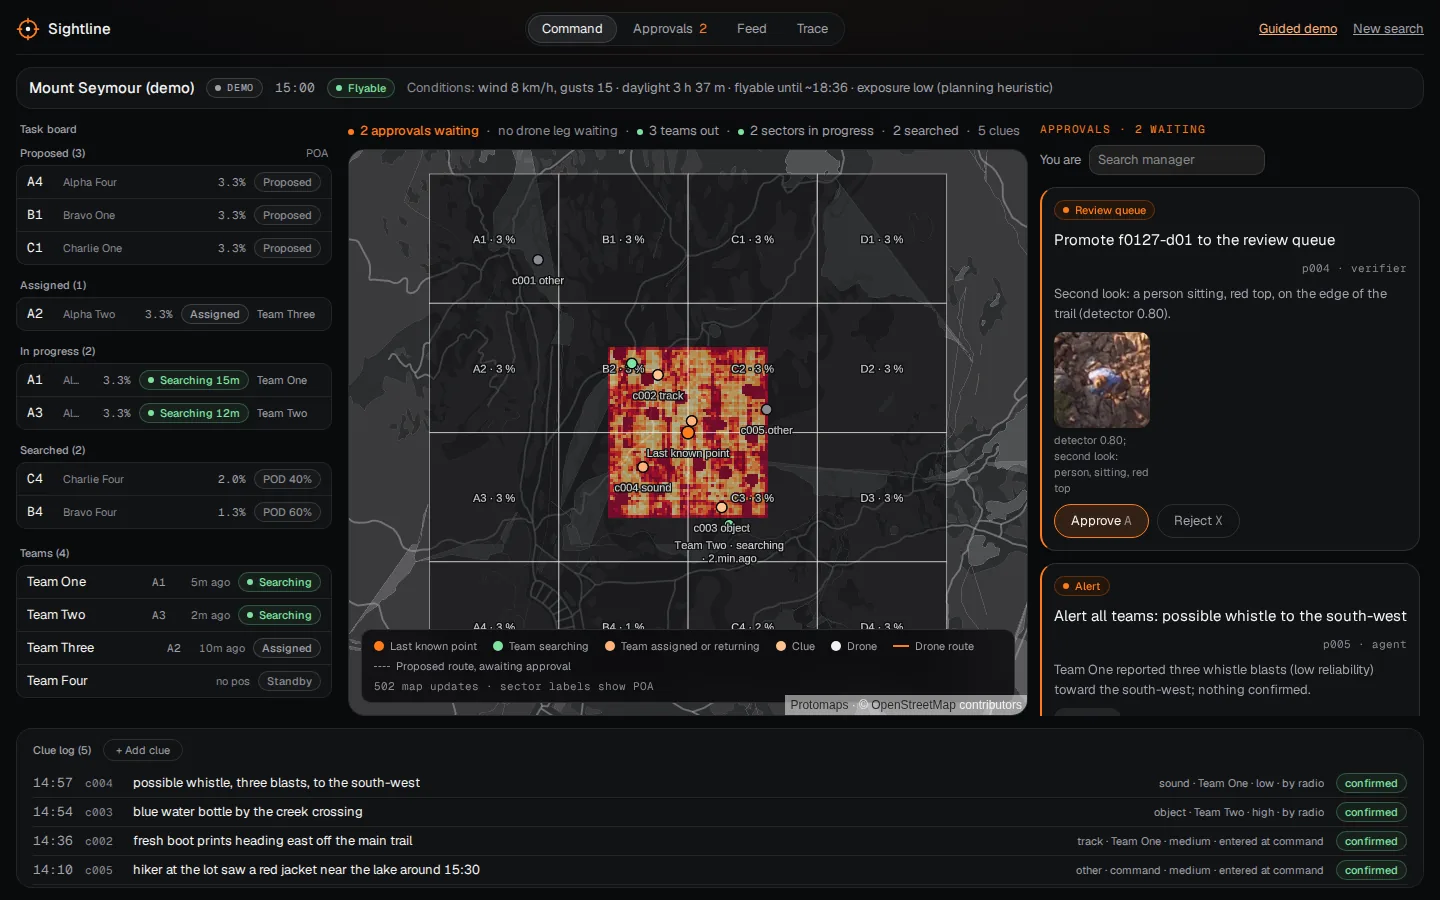
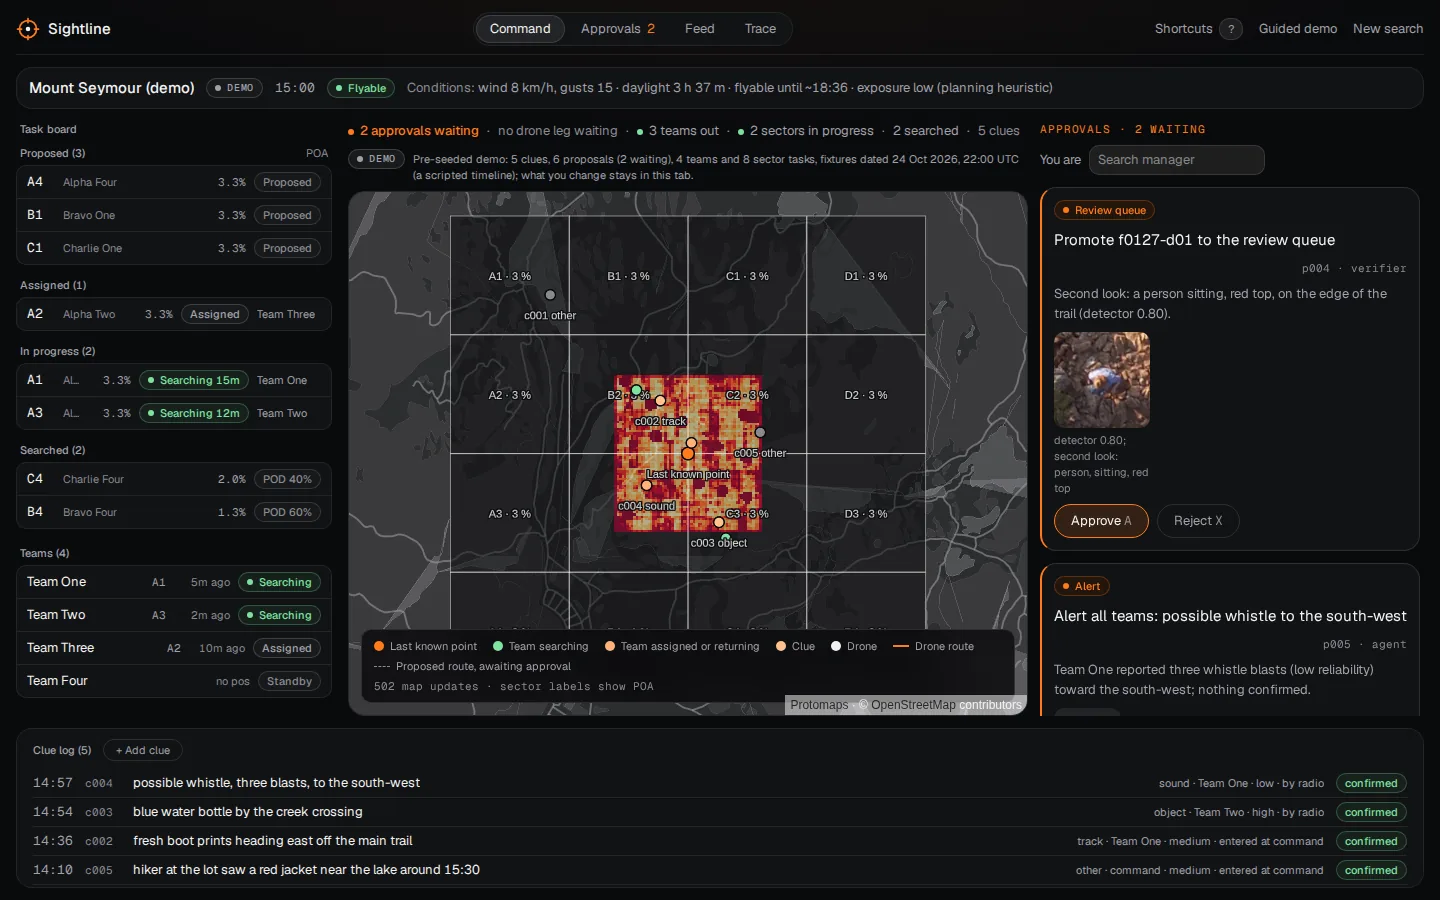
Front door screenshot retaken on the finished console; command README notes the console and Trace

diff --git a/web/src/command/README.md b/web/src/command/README.md
@@ -51,3 +51,19 @@ clock, not the demo's 21:00 timeline.
 - **Roster fly-to** (E-06): a team's callsign selects it (`useSelection().selectTeam`, D-M2), and the live map
   flies to its position; clicking a team, drone or clue on the map selects it.
 
+## Console and Trace (lane A, redesign)
+
+- **Console** (`CommandView` with `map`): one-row mission header (name, LIVE/DEMO chip, clock, flyability,
+  conditions), a status line above the map (`missionStatus`: approvals waiting, drone leg ready, teams out,
+  sectors in progress, clues), one-line task rows (sector · POA · state · team; actions on hover or focus,
+  the row expands to details, the team picker and the POD entry), a first-visit hint (`ConsoleHint`, kept in
+  `localStorage` under `sightline.consoleHint`) and a "Desktop recommended" note under 1024 px.
+- **Status colours** (`shell/theme.css`): one pill, `.sl-pill`, driven by `--c` through `data-tone`: ok
+  (green: searching, done), caution (amber), alert (red), action (orange: needs a person), neutral, muted.
+  `StatusPill`, `ModeChip` (LIVE / DEMO / SIM / Recorded) and `Badge` all use it.
+- **Trace tab** (`TraceView.tsx`, `trace.ts`, `#m/<id>/trace`): `GET /missions/{id}/trace` polled with
+  `?after=`; entries grouped into chains by shared ids (perception → decision → action → approval), one line
+  per step (span type, tool or model, input, output, ms), the proposal each chain led to and who decided, and
+  a "which model did what" strip. The demo mission shows two recorded runs copied from the repo
+  (`__fixtures__/demo_trace*.jsonl`, the av-chain crops), labelled Recorded.
+
